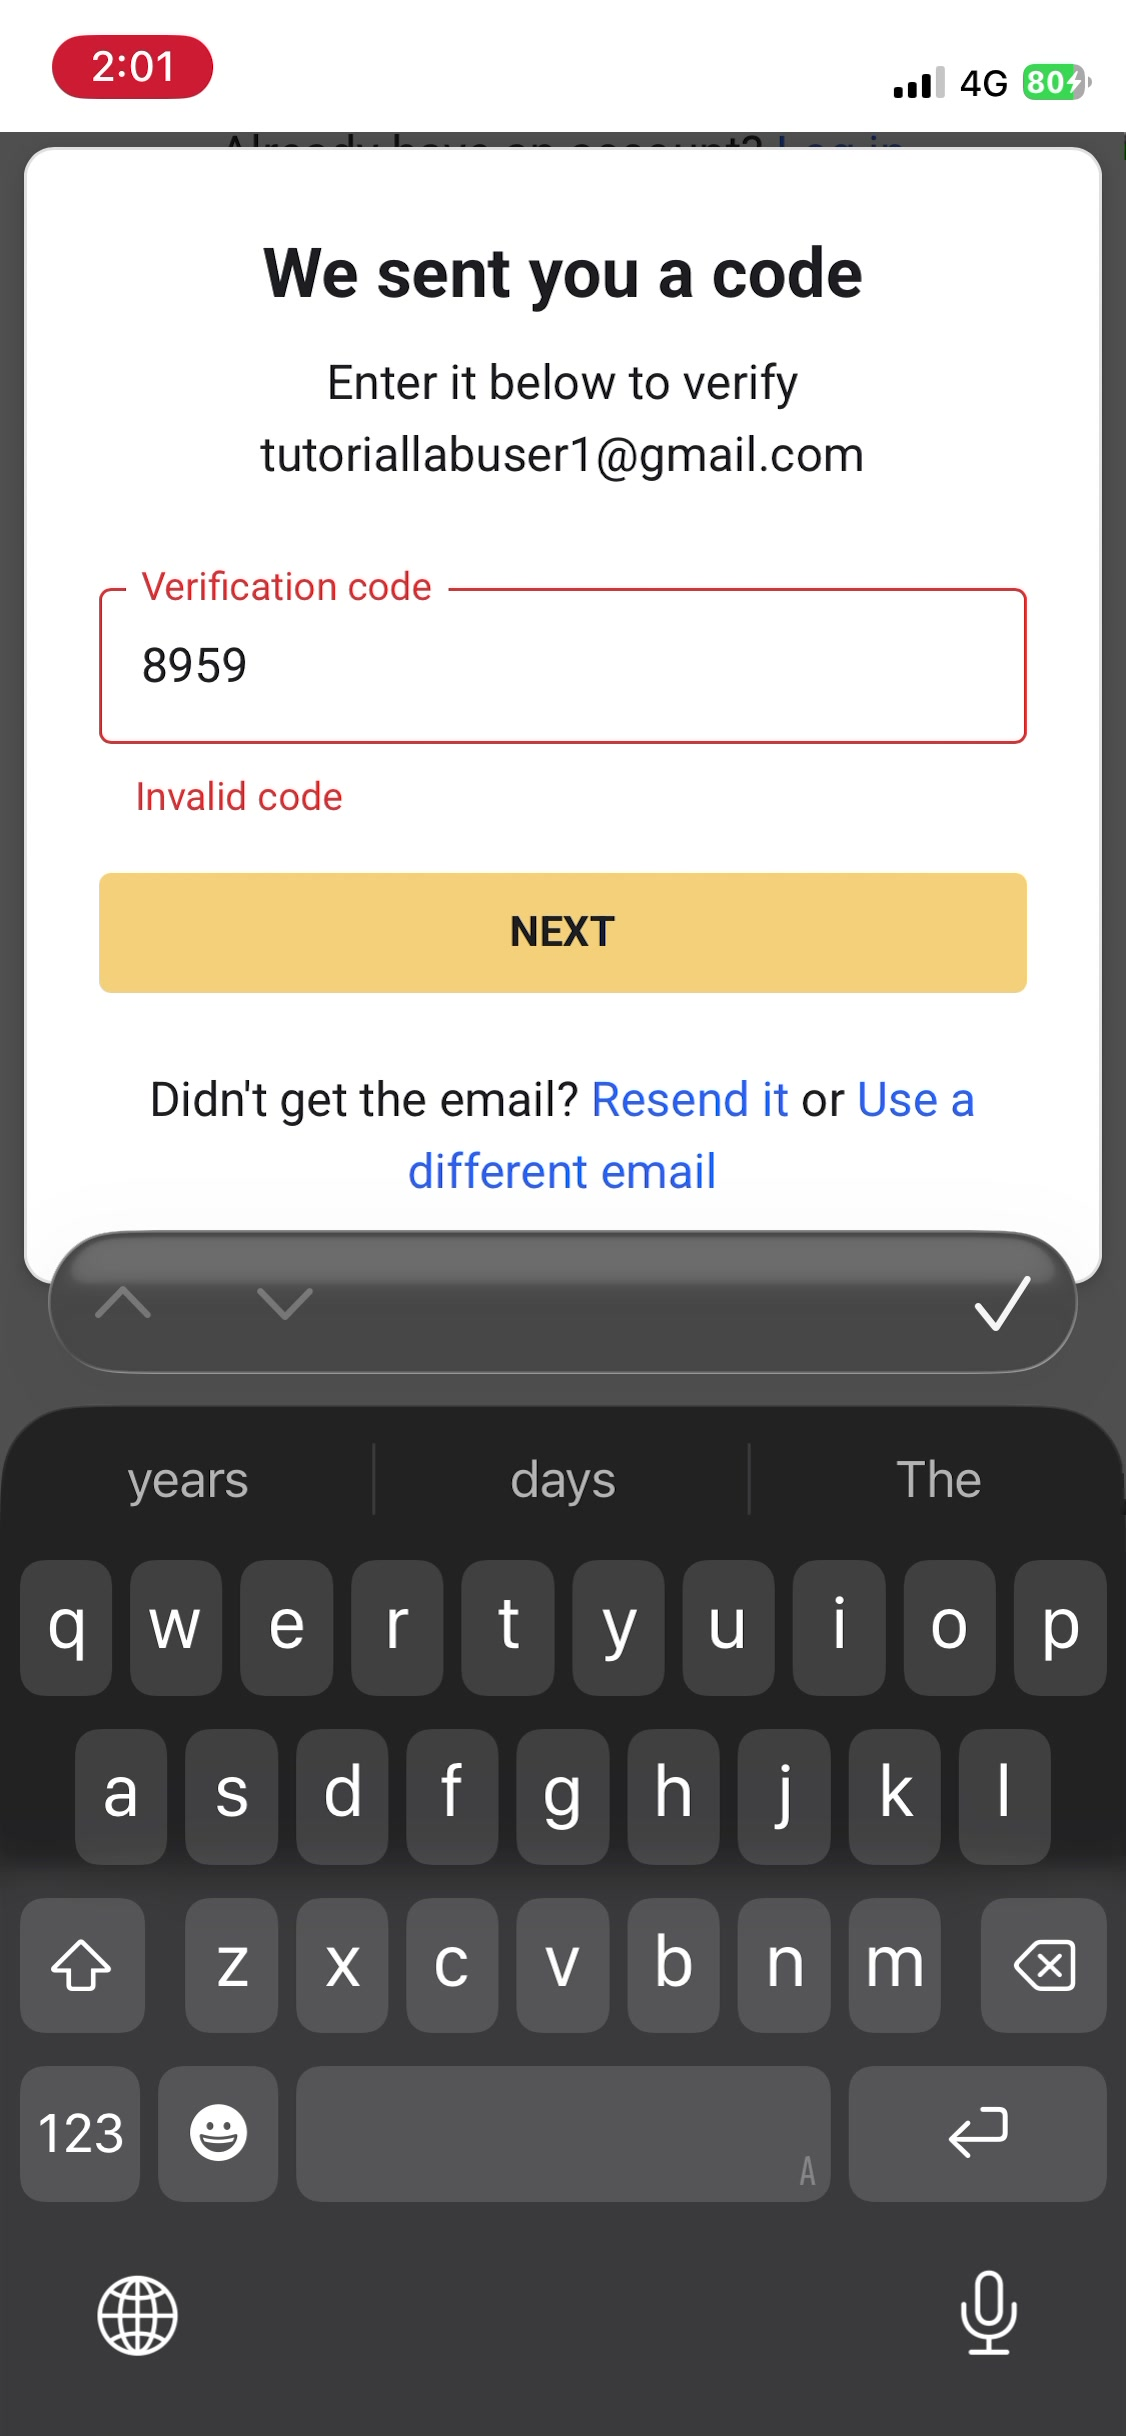
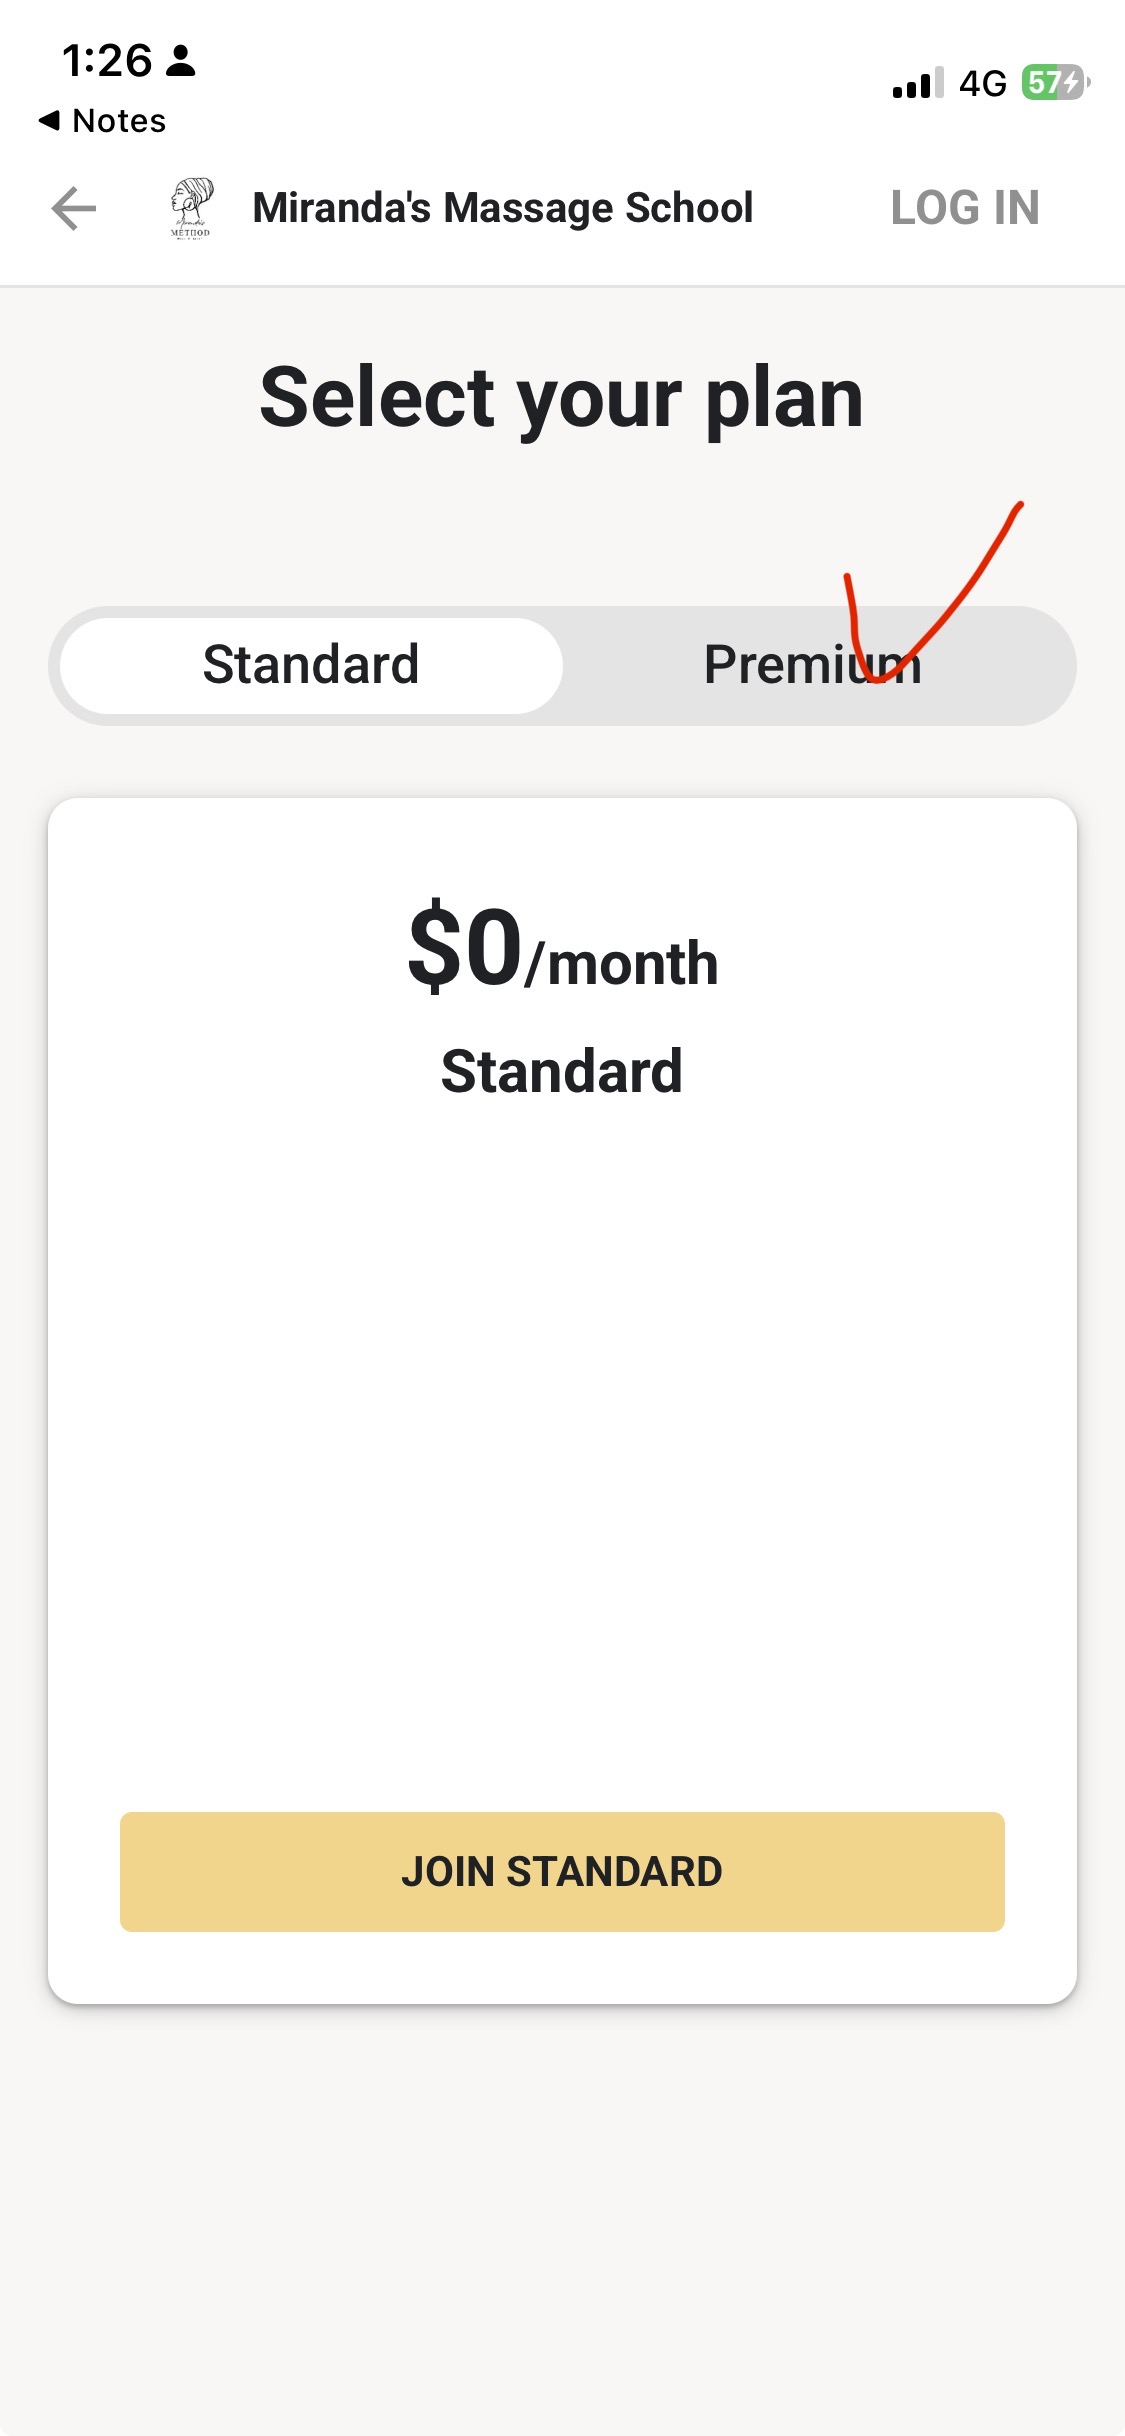
Fix Standard plan image in basic guide

diff --git a/basic.html b/basic.html
@@ -19,7 +19,7 @@
       <section class="step"><div class="step-head"><span class="num">1</span><div><h2>前往 Skool 社群</h2><p>先開啟 Miranda 的 Skool 社群介紹頁。</p></div></div><div class="quick-actions"><a class="quick-action has-action-num" href="https://www.skool.com/mirandas-massage-school-5068/about" target="_blank" rel="noopener"><span class="action-num">1</span><span><strong>點擊此按鈕開啟 Skool 入群頁面</strong><small>開啟後再按黃色 JOIN GROUP</small></span><span class="action-arrow">›</span></a></div><div class="screen-wrap"><img class="screen" src="basic-01-join-group.jpg" alt="社群頁面的 JOIN GROUP 按鈕"></div></section>
       <section class="step"><div class="step-head"><span class="num">2</span><div><h2>建立 Skool 帳號</h2><p>填寫名字、Email 與密碼，再按 SIGN UP。</p></div></div><p class="note">名字請使用英文填寫：First name 與 Last name 都要用英文。</p><div class="screen-wrap"><img class="screen" loading="lazy" src="basic-02-create-account.jpg" alt="建立 Skool 帳號畫面"></div></section>
       <section class="step"><div class="step-head"><span class="num">3</span><div><h2>輸入 Email 驗證碼</h2><p>到信箱查看驗證碼，輸入後按 NEXT。</p></div></div><div class="screen-wrap"><img class="screen" loading="lazy" src="basic-03-email-code.jpg" alt="輸入 Email 驗證碼畫面"></div></section>
-      <section class="step"><div class="step-head"><span class="num">4</span><div><h2>選擇 Standard</h2><p>確認顯示 $0/month，再按 JOIN STANDARD。</p></div></div><div class="screen-wrap"><img class="screen" loading="lazy" src="basic-04-standard-plan.jpg" alt="選擇 Standard 免費方案畫面"></div></section>
+      <section class="step"><div class="step-head"><span class="num">4</span><div><h2>選擇 Standard</h2><p>確認顯示 $0/month，再按 JOIN STANDARD。</p></div></div><div class="screen-wrap"><img class="screen" loading="lazy" src="basic-04-standard-plan.jpg?v=20260806-1" alt="選擇 Standard 免費方案畫面"></div></section>
       <section class="step"><div class="step-head"><span class="num">5</span><div><h2>回答入群問題</h2><p>填寫常用 Email 與問題，完成後按 JOIN GROUP。</p></div></div><div class="screen-wrap"><img class="screen" loading="lazy" src="basic-05-join-questions.jpg" alt="回答入群問題畫面"></div></section>
       <section class="step"><div class="step-head"><span class="num">6</span><div><h2>完成個人資料</h2><p>上傳照片、填寫簡短介紹，再按 COMPLETE。</p></div></div><div class="screen-wrap"><img class="screen" loading="lazy" src="basic-06-complete-profile.jpg" alt="完成個人資料畫面"></div></section>
       <section class="step"><div class="step-head"><span class="num">7</span><div><h2>等待入群核准</h2><p>看到 Membership pending 就代表申請已送出。</p></div></div><p class="note success">完成！核准後會收到通知，就可以正式進入社群。</p><div class="screen-wrap"><img class="screen" loading="lazy" src="basic-07-membership-pending.jpg" alt="Membership pending 等待核准畫面"></div></section>
